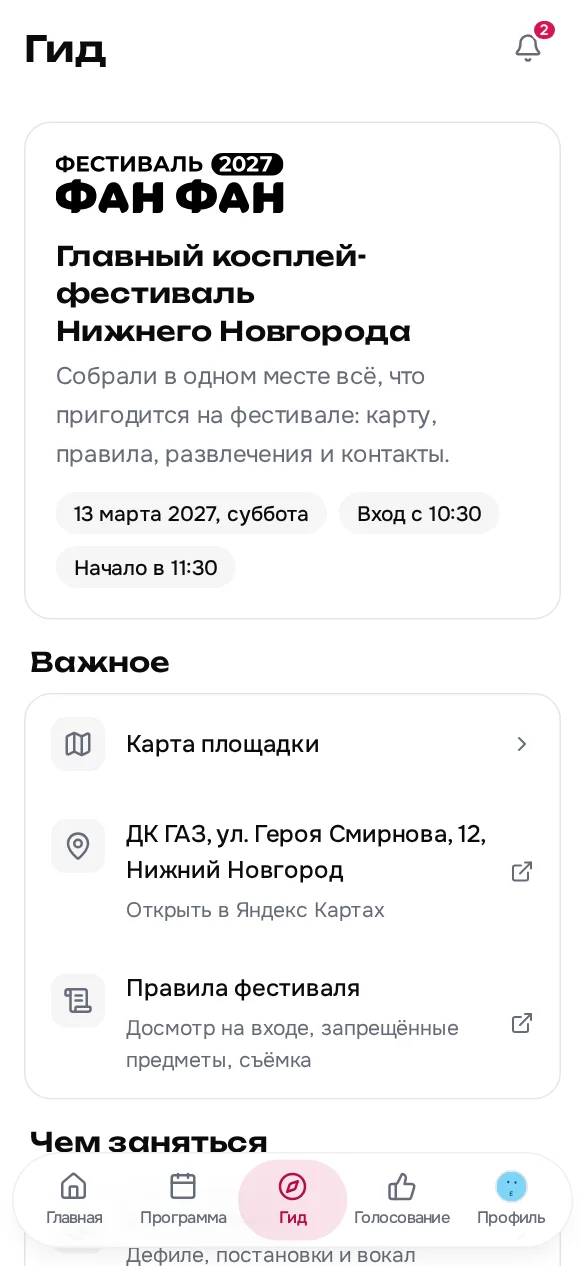
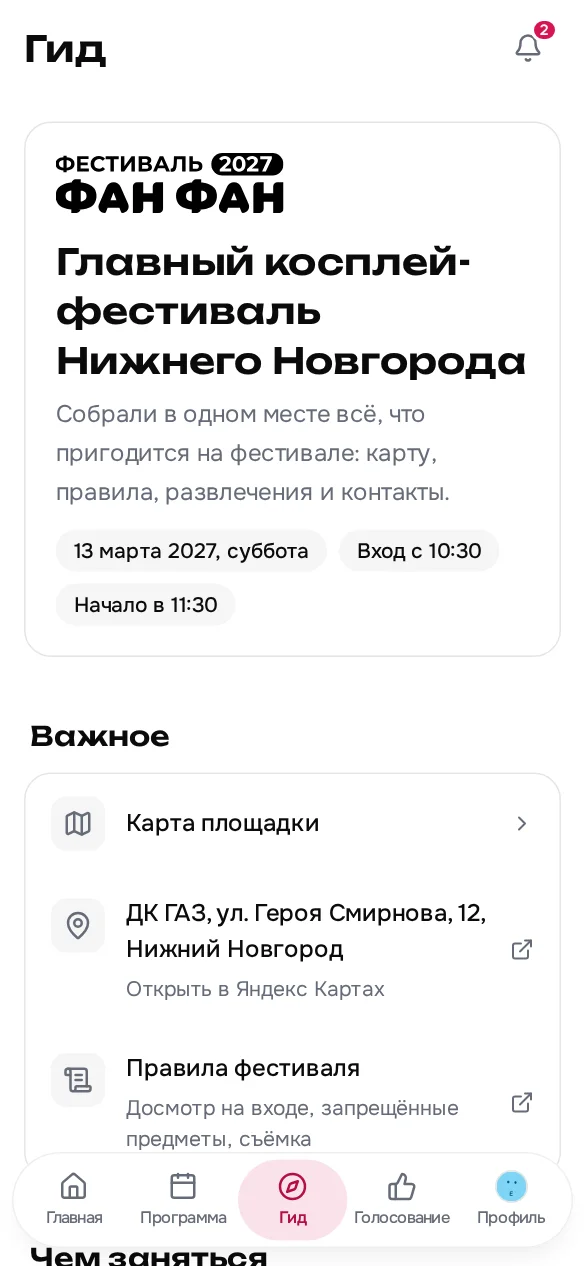
feat(frontend): space the guide like a magazine, tagline as its cover line
Section gap 40px, heading-to-list 12px: each head sits over three times
nearer its list than the block above, so it reads as that list's title.
The tagline steps up to text-headline so it no longer ties with the heads.

Claude-Session: https://claude.ai/code/session_01GGCdtb5EeVjHHRSBY2mG9w

diff --git a/frontend/src/routes/(app)/guide/+page.svelte b/frontend/src/routes/(app)/guide/+page.svelte
@@ -129,11 +129,14 @@
      rows that each lead somewhere. Grouped rows with a trailing indicator are the
      phone-settings shape for "drill in"
      (https://developer.apple.com/design/human-interface-guidelines/lists-and-tables),
-     so every target is a full-width tap. Capped and centred like the profile column. -->
-<div class="mx-auto flex w-full max-w-2xl flex-col gap-4 sm:gap-5">
+     so every target is a full-width tap. Capped and centred like the profile column.
+     Read as a magazine: the tagline is the cover line, a step above the section heads,
+     and each head sits over three times nearer its list than the block before it, so
+     it reads as that list's title (https://practicaltypography.com/space-above-and-below.html). -->
+<div class="mx-auto flex w-full max-w-2xl flex-col gap-10">
 	<section aria-labelledby="guide-heading" class="rounded-2xl border bg-card p-5 sm:p-6">
 		<img src={logo} alt={m.app_name()} class="h-10 w-auto dark:invert" />
-		<h2 id="guide-heading" class="mt-4 text-section text-balance">
+		<h2 id="guide-heading" class="mt-4 text-headline text-balance">
 			{m.guide_tagline()}
 		</h2>
 		<p class="mt-1.5 text-body leading-relaxed text-muted-foreground">{m.guide_about()}</p>
@@ -144,7 +147,7 @@
 		</ul>
 	</section>
 
-	<section aria-labelledby="guide-important" class="flex flex-col gap-2">
+	<section aria-labelledby="guide-important" class="flex flex-col gap-3">
 		<h2 id="guide-important" class="px-1 text-section text-foreground">
 			{m.guide_important_heading()}
 		</h2>
@@ -165,7 +168,7 @@
 		</MenuGroup>
 	</section>
 
-	<section aria-labelledby="guide-activities" class="flex flex-col gap-2">
+	<section aria-labelledby="guide-activities" class="flex flex-col gap-3">
 		<h2 id="guide-activities" class="px-1 text-section text-foreground">
 			{m.guide_activities_heading()}
 		</h2>
@@ -182,7 +185,7 @@
 	</section>
 
 	<!-- Rarely needed on the day, so below the activities rather than in the hero. -->
-	<section aria-labelledby="guide-contacts" class="flex flex-col gap-2">
+	<section aria-labelledby="guide-contacts" class="flex flex-col gap-3">
 		<h2 id="guide-contacts" class="px-1 text-section text-foreground">
 			{m.guide_contacts_heading()}
 		</h2>
